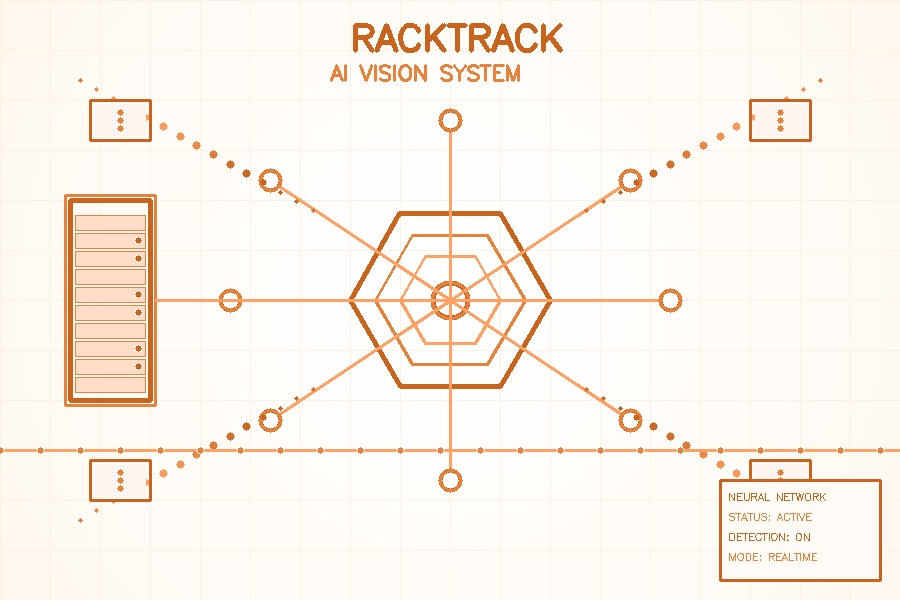
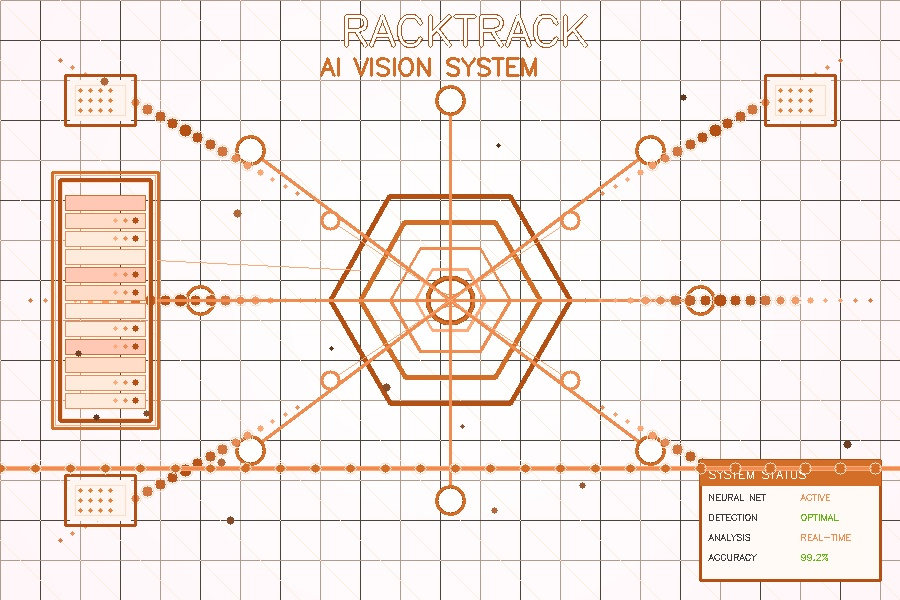
Enhance AI vision system visualization with sophisticated design elements
Add a new white and blue themed AI vision system image, enhancing visual appeal.

Replit-Commit-Author: Agent
Replit-Commit-Session-Id: d4682d09-170c-4e88-bd0e-e5c5be6514da
Replit-Commit-Screenshot-Url: https://storage.googleapis.com/screenshot-production-us-central1/0933ef3a-6ac8-4e37-8526-0443bc8a80e6/ccd58283-d0a9-4ed1-8aac-ec2e8a3fe0bb.jpg

diff --git a/replit.md b/replit.md
@@ -95,10 +95,14 @@ RackTrack is a Flask-based web application that uses AI deep learning models to 
 - Sufficient storage for model files and temporary processing
 
 ## Recent Changes
-- June 25, 2025: Centered Get Started button alignment
-  - Changed Get Started button from right alignment to center alignment
-  - Now matches the centered alignment of "Powered by AI" text
-  - Maintains consistent visual hierarchy in hero section
+- June 25, 2025: Enhanced AI vision system visualization with sophisticated design
+  - Created advanced blue and white themed RackTrack AI Vision System image
+  - Added multi-layered hexagonal AI core with brain circuit patterns
+  - Enhanced neural network with primary and secondary nodes
+  - Implemented advanced data streams with pulsing particle effects
+  - Added detailed server rack with multiple LED indicators and depth effects
+  - Created sophisticated status panel with system metrics and real-time data
+  - Enhanced scanning effects with multiple scan lines and glowing particles
 - June 25, 2025: Created white and blue AI vision system visualization  
   - Built clean white background with blue accents and geometric grid pattern
   - Implemented hexagonal AI core with white centers and blue borders
